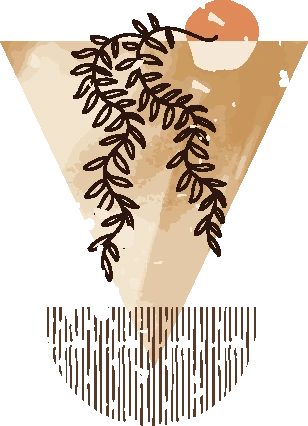
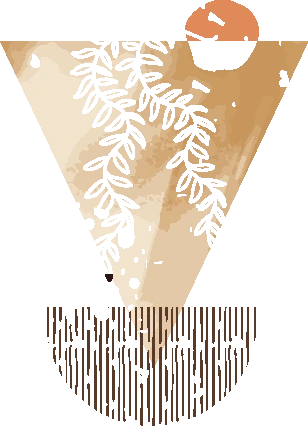
Poklon bon: vracen luk sa suncem, istaknuti CTA u sredini; motivi bez grana s listovima

diff --git a/en/index.html b/en/index.html
@@ -128,18 +128,19 @@
 
   /* 6 · POKLON BON — okvir desno, tekst lijevo */
   .nn .gift{position:relative;display:block;padding:clamp(4rem,6vw,6.5rem) 2rem;background:var(--cream);overflow:hidden}
-  .nn .gwrap{max-width:1240px;margin:0 auto;display:grid;grid-template-columns:auto auto auto;justify-content:center;align-items:center;gap:clamp(1.5rem,4vw,4rem)}
-  .nn .gdivide{position:relative;z-index:2;right:clamp(-165px,-11vw,-74px);width:min(230px,16vw);aspect-ratio:302/548;justify-self:center;background:url('../wp-content/uploads/soul/motiv-a6-4.webp') center/contain no-repeat;align-self:center}
+  .nn .gwrap{max-width:1240px;margin:0 auto;display:grid;grid-template-columns:auto auto;justify-content:center;align-items:center;gap:clamp(2rem,5vw,5.5rem)}
   .nn .gcopy{width:fit-content;max-width:min(460px,34vw)}
   .nn .gcopy .eyebrow{display:block;font-size:.74rem;color:var(--terra);margin-bottom:.9rem}
   .nn .gcopy h2{font-size:clamp(2.2rem,4vw,3.3rem);line-height:1.04;margin-bottom:1.1rem;color:var(--ink)}
   .nn .gcopy p{font-size:clamp(1rem,1.3vw,1.14rem);line-height:1.65;color:var(--ink-soft);max-width:34ch;margin-bottom:1.5rem}
-  .nn .gframe{position:relative;width:min(400px,30vw);aspect-ratio:900/1060;justify-self:center}
-  .nn .gframe::before,.nn .gframe::after{content:"";position:absolute;left:50%;top:38%;transform:translate(-50%,-50%);width:114%;aspect-ratio:955/1245;background-position:center;background-size:contain;background-repeat:no-repeat;pointer-events:none}
+  .nn .gframe{position:relative;width:min(440px,34vw);aspect-ratio:900/1248;justify-self:center;
+    display:flex;align-items:center;justify-content:center;
+    background:url('../wp-content/uploads/soul/luk-terakota.webp') center/contain no-repeat}
+  .nn .gframe::before,.nn .gframe::after{content:"";position:absolute;left:50%;top:42%;transform:translate(-50%,-50%);width:80%;aspect-ratio:955/1245;background-position:center;background-size:contain;background-repeat:no-repeat;pointer-events:none}
   /* akvarel ostaje iza kruznog vektora */
-  .nn .gframe::before{background-image:url('../wp-content/uploads/soul/motiv-a4-2-wash.webp');opacity:.34;mix-blend-mode:multiply;z-index:0}
+  .nn .gframe::before{background-image:url('../wp-content/uploads/soul/motiv-a4-2-wash.webp');opacity:.4;mix-blend-mode:multiply;z-index:0}
   /* grancica ide preko kruznog vektora */
-  .nn .gframe::after{background-image:url('../wp-content/uploads/soul/motiv-a4-2-line.webp');opacity:.55;z-index:3}
+  .nn .gframe::after{background-image:url('../wp-content/uploads/soul/motiv-a4-2-line.webp');opacity:.6;z-index:1}
   .nn .v-mins{display:flex;flex-wrap:wrap;justify-content:flex-start;gap:.6rem;margin:1.9rem 0 .8rem}
   .nn .vm{display:flex;flex-direction:row;align-items:baseline;gap:.28rem;padding:.46rem 1.05rem;
     border:1px solid rgba(196,85,31,.4);border-radius:999px}
@@ -149,9 +150,13 @@
   .nn .gin .rule{display:block;width:52px;height:1px;margin:1.5rem auto;background:rgba(196,85,31,.45)}
   .nn .gift-notes{list-style:none;margin:0;padding:0;display:inline-flex;flex-direction:column;align-items:flex-start;text-align:left;gap:.55rem;font-family:var(--caps);font-size:clamp(.6rem,.9vw,.76rem);letter-spacing:.04em;text-transform:uppercase;color:var(--ink-soft)}
   .nn .gift-notes li::before{content:"\2726";color:var(--terra);margin-right:.4rem}
-  .nn .link-arrow{display:inline-block;font-family:var(--caps);font-size:.8rem;letter-spacing:.22em;text-transform:uppercase;color:var(--ink)}
-  .nn .link-arrow span{display:inline-block;margin-left:.55rem;transition:transform .3s ease}
-  .nn .link-arrow:hover span{transform:translateX(5px)}
+  .nn .gift-cta{position:relative;z-index:3;display:inline-block;font-family:var(--caps);font-weight:700;
+    font-size:clamp(.76rem,.9vw,.88rem);letter-spacing:.22em;text-transform:uppercase;color:var(--terra);
+    background:rgba(244,232,214,.85);border:1px solid rgba(196,85,31,.55);border-radius:999px;
+    padding:.85rem 1.6rem;transition:background .3s ease,color .3s ease,border-color .3s ease}
+  .nn .gift-cta span{display:inline-block;margin-left:.5rem;transition:transform .3s ease}
+  .nn .gift-cta:hover{background:var(--terra);border-color:var(--terra);color:#FFF3E5}
+  .nn .gift-cta:hover span{transform:translateX(5px)}
   @media(max-width:820px){
     .nn .gift{padding:4.5rem 1.6rem 5rem}
     .nn .gwrap{grid-template-columns:1fr;gap:2.2rem;text-align:center;justify-items:center;justify-content:stretch}
@@ -159,8 +164,8 @@
     .nn .gcopy{width:100%;max-width:none}
     .nn .gcopy h2{white-space:nowrap}
     .nn .gcopy p{max-width:30ch}
-    .nn .link-arrow{white-space:nowrap;letter-spacing:.14em;font-size:.74rem}
-    .nn .gframe{width:min(320px,84vw)}
+    .nn .gift-cta{white-space:nowrap;letter-spacing:.14em;font-size:.72rem;padding:.8rem 1.2rem}
+    .nn .gframe{width:min(330px,86vw)}
     .nn .gframe::before,.nn .gframe::after{width:98%}
     .nn .gframe::before{opacity:.3}
     .nn .gdivide{width:clamp(90px,26vw,140px);right:0}
@@ -399,10 +404,10 @@
             <div class="vm"><span class="vm-n">90</span><span class="vm-u">min</span></div>
           </div>
           <p class="v-unit">minutes of your ritual</p>
-          <a class="link-arrow" href="gift-voucher/">See gift vouchers <span aria-hidden="true">&rsaquo;</span></a>
         </div>
-        <div class="gdivide" aria-hidden="true"></div>
-        <div class="gframe" aria-hidden="true"></div>
+        <div class="gframe">
+          <a class="gift-cta" href="gift-voucher/">See gift vouchers <span aria-hidden="true">&rsaquo;</span></a>
+        </div>
       </div>
     </section>
 

diff --git a/index.html b/index.html
@@ -129,18 +129,19 @@
 
   /* 6 · POKLON BON — okvir desno, tekst lijevo */
   .nn .gift{position:relative;display:block;padding:clamp(4rem,6vw,6.5rem) 2rem;background:var(--cream);overflow:hidden}
-  .nn .gwrap{max-width:1240px;margin:0 auto;display:grid;grid-template-columns:auto auto auto;justify-content:center;align-items:center;gap:clamp(1.5rem,4vw,4rem)}
-  .nn .gdivide{position:relative;z-index:2;right:clamp(-165px,-11vw,-74px);width:min(230px,16vw);aspect-ratio:302/548;justify-self:center;background:url('wp-content/uploads/soul/motiv-a6-4.webp') center/contain no-repeat;align-self:center}
+  .nn .gwrap{max-width:1240px;margin:0 auto;display:grid;grid-template-columns:auto auto;justify-content:center;align-items:center;gap:clamp(2rem,5vw,5.5rem)}
   .nn .gcopy{width:fit-content;max-width:min(460px,34vw)}
   .nn .gcopy .eyebrow{display:block;font-size:.74rem;color:var(--terra);margin-bottom:.9rem}
   .nn .gcopy h2{font-size:clamp(2.2rem,4vw,3.3rem);line-height:1.04;margin-bottom:1.1rem;color:var(--ink)}
   .nn .gcopy p{font-size:clamp(1rem,1.3vw,1.14rem);line-height:1.65;color:var(--ink-soft);max-width:34ch;margin-bottom:1.5rem}
-  .nn .gframe{position:relative;width:min(400px,30vw);aspect-ratio:900/1060;justify-self:center}
-  .nn .gframe::before,.nn .gframe::after{content:"";position:absolute;left:50%;top:38%;transform:translate(-50%,-50%);width:114%;aspect-ratio:955/1245;background-position:center;background-size:contain;background-repeat:no-repeat;pointer-events:none}
+  .nn .gframe{position:relative;width:min(440px,34vw);aspect-ratio:900/1248;justify-self:center;
+    display:flex;align-items:center;justify-content:center;
+    background:url('wp-content/uploads/soul/luk-terakota.webp') center/contain no-repeat}
+  .nn .gframe::before,.nn .gframe::after{content:"";position:absolute;left:50%;top:42%;transform:translate(-50%,-50%);width:80%;aspect-ratio:955/1245;background-position:center;background-size:contain;background-repeat:no-repeat;pointer-events:none}
   /* akvarel ostaje iza kruznog vektora */
-  .nn .gframe::before{background-image:url('wp-content/uploads/soul/motiv-a4-2-wash.webp');opacity:.34;mix-blend-mode:multiply;z-index:0}
+  .nn .gframe::before{background-image:url('wp-content/uploads/soul/motiv-a4-2-wash.webp');opacity:.4;mix-blend-mode:multiply;z-index:0}
   /* grancica ide preko kruznog vektora */
-  .nn .gframe::after{background-image:url('wp-content/uploads/soul/motiv-a4-2-line.webp');opacity:.55;z-index:3}
+  .nn .gframe::after{background-image:url('wp-content/uploads/soul/motiv-a4-2-line.webp');opacity:.6;z-index:1}
   .nn .v-mins{display:flex;flex-wrap:wrap;justify-content:flex-start;gap:.6rem;margin:1.9rem 0 .8rem}
   .nn .vm{display:flex;flex-direction:row;align-items:baseline;gap:.28rem;padding:.46rem 1.05rem;
     border:1px solid rgba(196,85,31,.4);border-radius:999px}
@@ -150,9 +151,13 @@
   .nn .gin .rule{display:block;width:52px;height:1px;margin:1.5rem auto;background:rgba(196,85,31,.45)}
   .nn .gift-notes{list-style:none;margin:0;padding:0;display:inline-flex;flex-direction:column;align-items:flex-start;text-align:left;gap:.55rem;font-family:var(--caps);font-size:clamp(.6rem,.9vw,.76rem);letter-spacing:.04em;text-transform:uppercase;color:var(--ink-soft)}
   .nn .gift-notes li::before{content:"\2726";color:var(--terra);margin-right:.4rem}
-  .nn .link-arrow{display:inline-block;font-family:var(--caps);font-size:.8rem;letter-spacing:.22em;text-transform:uppercase;color:var(--ink)}
-  .nn .link-arrow span{display:inline-block;margin-left:.55rem;transition:transform .3s ease}
-  .nn .link-arrow:hover span{transform:translateX(5px)}
+  .nn .gift-cta{position:relative;z-index:3;display:inline-block;font-family:var(--caps);font-weight:700;
+    font-size:clamp(.76rem,.9vw,.88rem);letter-spacing:.22em;text-transform:uppercase;color:var(--terra);
+    background:rgba(244,232,214,.85);border:1px solid rgba(196,85,31,.55);border-radius:999px;
+    padding:.85rem 1.6rem;transition:background .3s ease,color .3s ease,border-color .3s ease}
+  .nn .gift-cta span{display:inline-block;margin-left:.5rem;transition:transform .3s ease}
+  .nn .gift-cta:hover{background:var(--terra);border-color:var(--terra);color:#FFF3E5}
+  .nn .gift-cta:hover span{transform:translateX(5px)}
   @media(max-width:820px){
     .nn .gift{padding:4.5rem 1.6rem 5rem}
     .nn .gwrap{grid-template-columns:1fr;gap:2.2rem;text-align:center;justify-items:center;justify-content:stretch}
@@ -160,8 +165,8 @@
     .nn .gcopy{width:100%;max-width:none}
     .nn .gcopy h2{white-space:nowrap}
     .nn .gcopy p{max-width:30ch}
-    .nn .link-arrow{white-space:nowrap;letter-spacing:.14em;font-size:.74rem}
-    .nn .gframe{width:min(320px,84vw)}
+    .nn .gift-cta{white-space:nowrap;letter-spacing:.14em;font-size:.72rem;padding:.8rem 1.2rem}
+    .nn .gframe{width:min(330px,86vw)}
     .nn .gframe::before,.nn .gframe::after{width:98%}
     .nn .gframe::before{opacity:.3}
     .nn .gdivide{width:clamp(90px,26vw,140px);right:0}
@@ -400,10 +405,10 @@
             <div class="vm"><span class="vm-n">90</span><span class="vm-u">min</span></div>
           </div>
           <p class="v-unit">minuta tvog rituala</p>
-          <a class="link-arrow" href="poklon-bon/">Pogledaj poklon bonove <span aria-hidden="true">&rsaquo;</span></a>
         </div>
-        <div class="gdivide" aria-hidden="true"></div>
-        <div class="gframe" aria-hidden="true"></div>
+        <div class="gframe">
+          <a class="gift-cta" href="poklon-bon/">Pogledaj poklon bonove <span aria-hidden="true">&rsaquo;</span></a>
+        </div>
       </div>
     </section>
 
